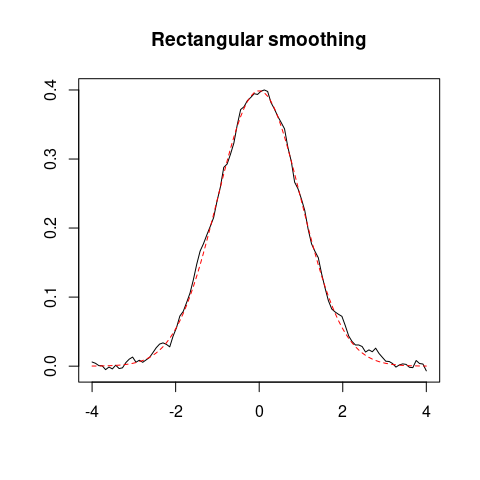
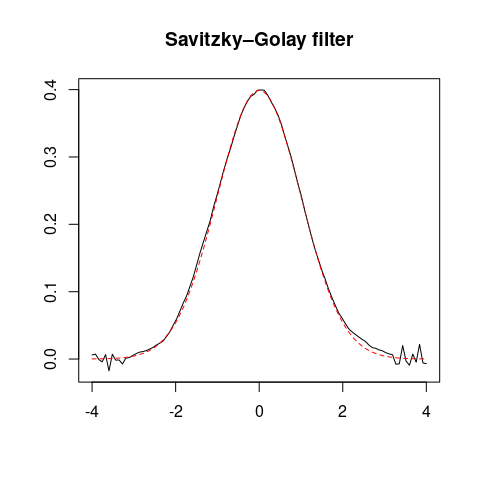
Add vignettes

diff --git a/README.md b/README.md
@@ -109,28 +109,13 @@ z <- y + rnorm(100, mean = 0, sd = 0.01) # Add some noise
 plot(x, z, type = "l", xlab = "", ylab = "", main = "Raw data")
 lines(x, y, type = "l", lty = 2, col = "red")
 
-## Rectangular smoothing
-unweighted <- smooth_rectangular(x, z, m = 3)
-plot(unweighted, type = "l", xlab = "", ylab = "", main = "Rectangular smoothing") 
-lines(x, y, type = "l", lty = 2, col = "red")
-
-## Triangular smoothing
-weighted <- smooth_triangular(x, z, m = 5)
-plot(weighted, type = "l", xlab = "", ylab = "", main = "Triangular smoothing")
-lines(x, y, type = "l", lty = 2, col = "red")
-
 ## Savitzky–Golay filter
 savitzky <- smooth_savitzky(x, z, m = 21, p = 2)
 plot(savitzky, type = "l", xlab = "", ylab = "", main = "Savitzky–Golay filter")
 lines(x, y, type = "l", lty = 2, col = "red")
-
-## Whittaker smoothing
-whittaker <- smooth_whittaker(x, z, lambda = 1000, d = 3)
-plot(whittaker, type = "l", xlab = "", ylab = "", main = "Whittaker smoothing")
-lines(x, y, type = "l", lty = 2, col = "red")
 ```
 
-<img src="man/figures/README-smooth-1.png" width="50%" /><img src="man/figures/README-smooth-2.png" width="50%" /><img src="man/figures/README-smooth-3.png" width="50%" /><img src="man/figures/README-smooth-4.png" width="50%" /><img src="man/figures/README-smooth-5.png" width="50%" />
+<img src="man/figures/README-smooth-1.png" width="50%" /><img src="man/figures/README-smooth-2.png" width="50%" />
 
 ## Contributing
 
